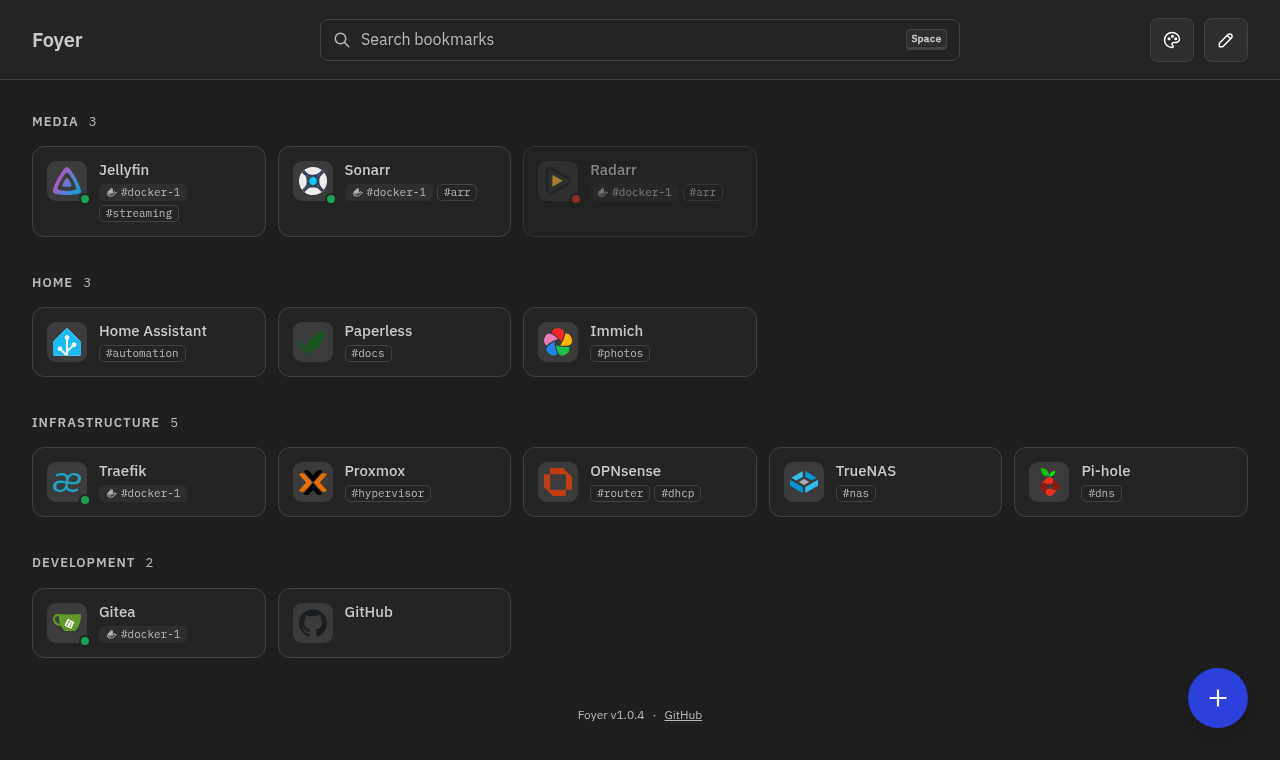
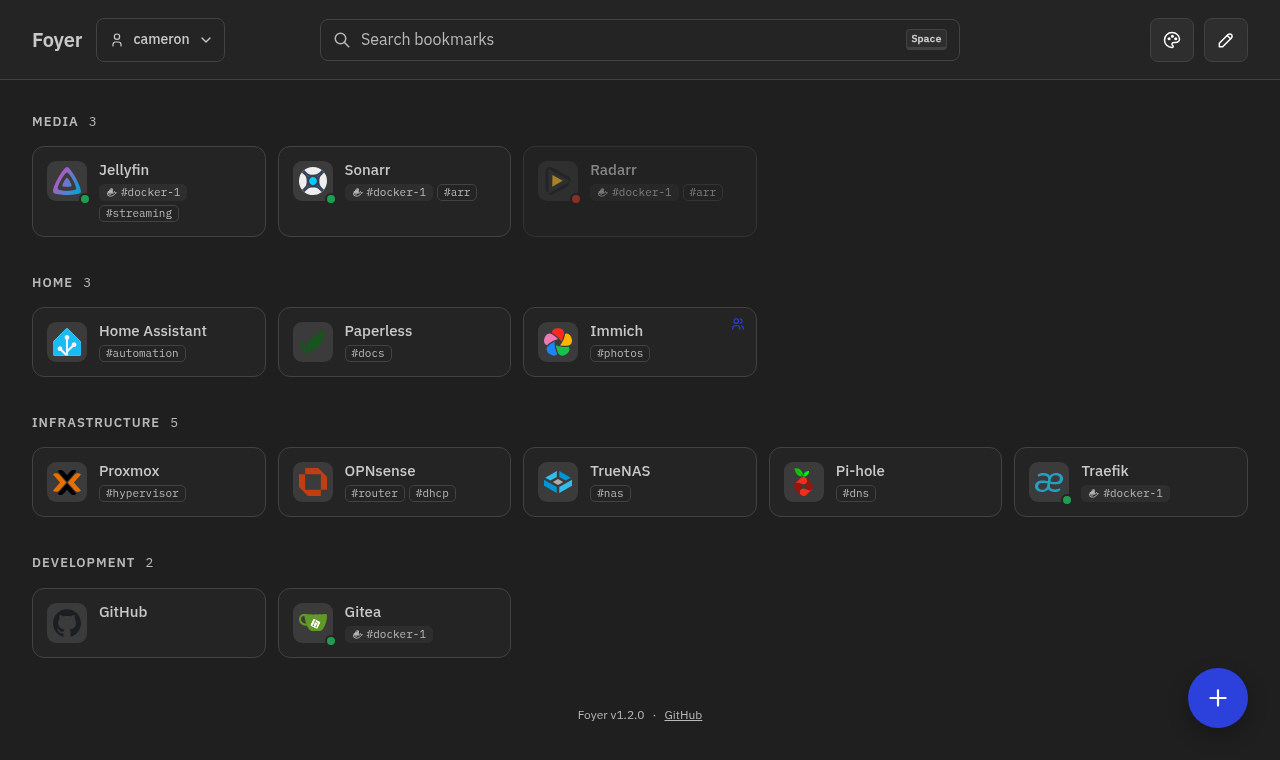
Docs: update the README screenshots for 1.2
Light and dark, on a personal profile with the profile picker, Docker bookmarks shown from Default, and a shared badge on Immich.

diff --git a/README.md b/README.md
@@ -9,7 +9,7 @@ One container: a .NET 10 minimal API that also serves the React app.
 
 <picture>
   <source media="(prefers-color-scheme: dark)" srcset="docs/screenshots/main-dark.png">
-  <img alt="Foyer's main page: bookmarks in Media, Home, Infrastructure and Development categories, Docker ones with green or red status dots" src="docs/screenshots/main-light.png">
+  <img alt="Foyer's main page on the cameron profile: bookmarks in Media, Home, Infrastructure and Development categories, Docker ones with green or red status dots, and a shared badge on Immich" src="docs/screenshots/main-light.png">
 </picture>
 
 ## Layout
